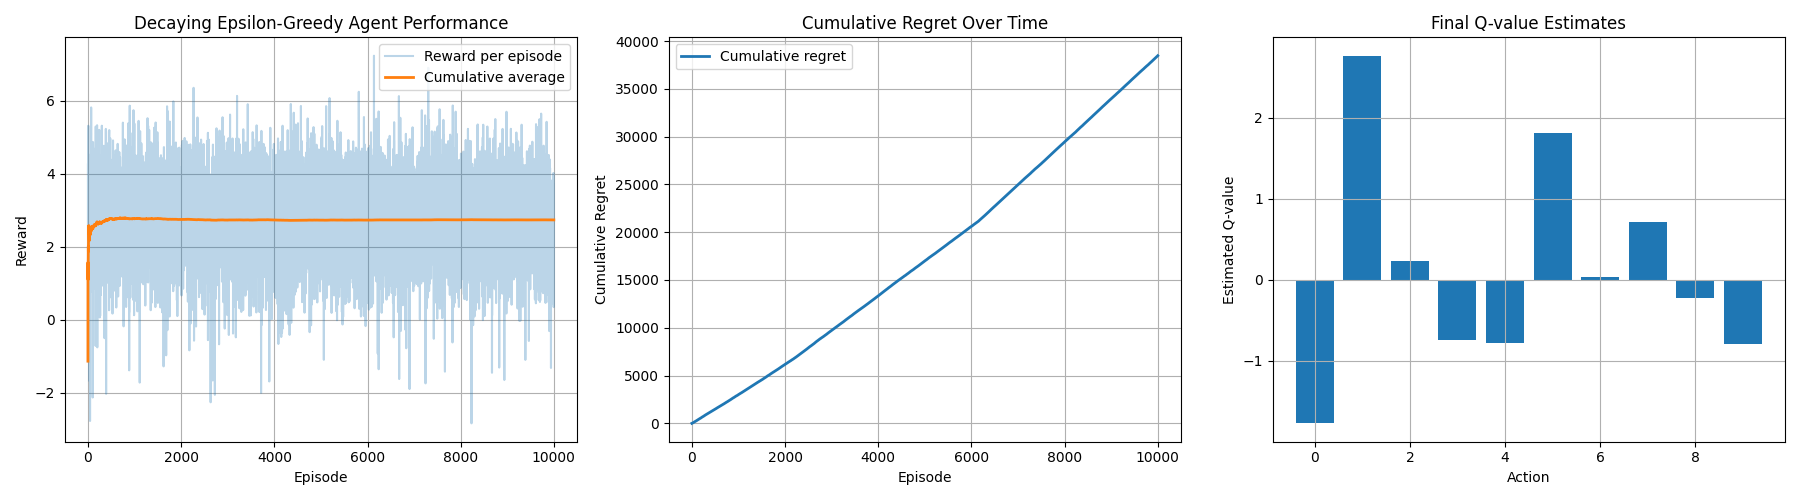
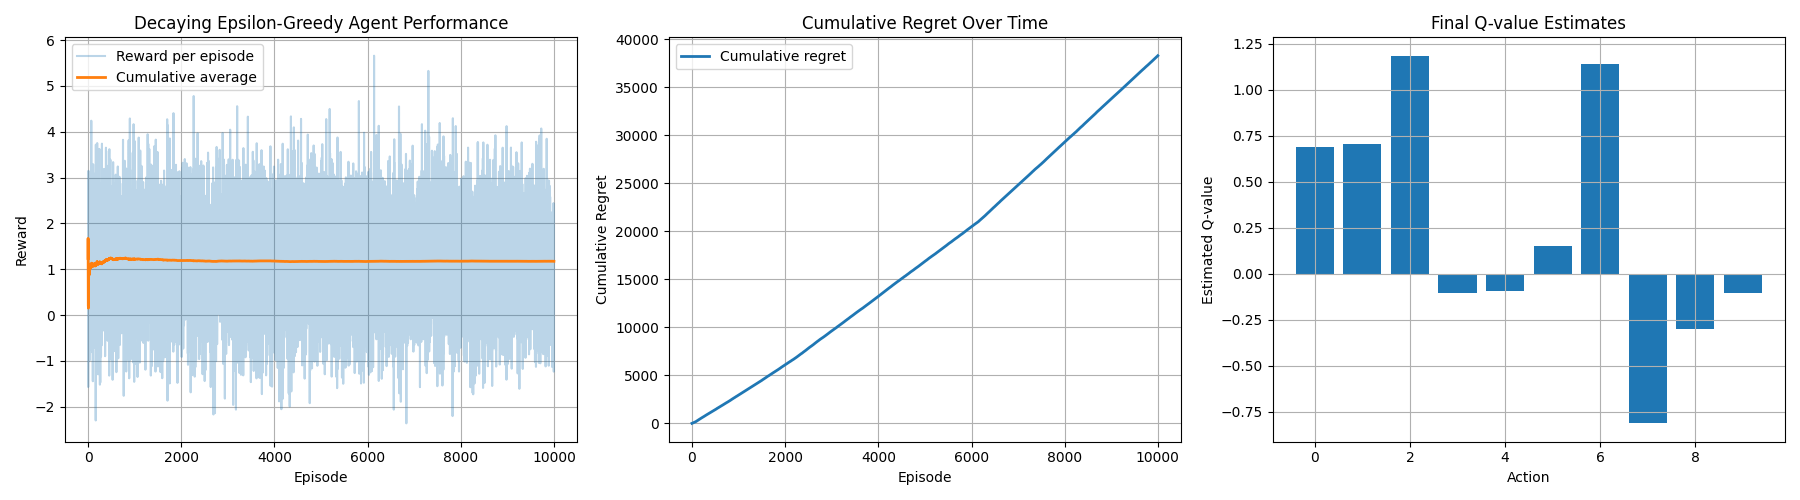
Update visualizations in agent training scripts to display rewards instead of cumulative regret. Modify titles and labels in plots for clarity. Update run_all_training.sh to remove warning suppression for the greedy agent script. Refresh binary result images for various agents.

diff --git a/decaying_epsilon_greedy.py b/decaying_epsilon_greedy.py
@@ -125,11 +125,11 @@ def train_decaying_epsilon_greedy_agent(env_name='BanditTenArmedGaussian-v0', n_
     # plt.show()
 
     plt.figure(figsize=(10, 6))
-    time_steps = range(len(cumulative_regret))
-    plt.plot(time_steps, cumulative_regret, linewidth=2, label='Total Regret')
+    time_steps = range(len(rewards))
+    plt.plot(time_steps, rewards, linewidth=2, label='Reward', alpha=0.6)
     plt.xlabel('Time-steps')
-    plt.ylabel('Total Regret')
-    plt.title('Total Regret vs Time-steps - Decaying Epsilon-Greedy Agent')
+    plt.ylabel('Reward')
+    plt.title('Reward vs Time-steps - Decaying Epsilon-Greedy Agent')
     plt.legend()
     plt.grid(True)
     plt.tight_layout()

diff --git a/thompson_sampling.py b/thompson_sampling.py
@@ -135,11 +135,11 @@ def train_thompson_sampling_agent(env_name='BanditTenArmedGaussian-v0', n_episod
     # plt.show()
 
     plt.figure(figsize=(10, 6))
-    time_steps = range(len(cumulative_regret))
-    plt.plot(time_steps, cumulative_regret, linewidth=2, label='Total Regret')
+    time_steps = range(len(rewards))
+    plt.plot(time_steps, rewards, linewidth=2, label='Reward', alpha=0.6)
     plt.xlabel('Time-steps')
-    plt.ylabel('Total Regret')
-    plt.title('Total Regret vs Time-steps - Thompson Sampling Agent')
+    plt.ylabel('Reward')
+    plt.title('Reward vs Time-steps - Thompson Sampling Agent')
     plt.legend()
     plt.grid(True)
     plt.tight_layout()

diff --git a/epsilon_greedy.py b/epsilon_greedy.py
@@ -103,11 +103,11 @@ def train_epsilon_greedy_agent(env_name='BanditTenArmedGaussian-v0', n_episodes=
     # plt.show()
 
     plt.figure(figsize=(10, 6))
-    time_steps = range(len(cumulative_regret))
-    plt.plot(time_steps, cumulative_regret, linewidth=2, label='Total Regret')
+    time_steps = range(len(rewards))
+    plt.plot(time_steps, rewards, linewidth=2, label='Reward', alpha=0.6)
     plt.xlabel('Time-steps')
-    plt.ylabel('Total Regret')
-    plt.title('Total Regret vs Time-steps - Epsilon-Greedy Agent')
+    plt.ylabel('Reward')
+    plt.title('Reward vs Time-steps - Epsilon-Greedy Agent')
     plt.legend()
     plt.grid(True)
     plt.tight_layout()

diff --git a/greedy.py b/greedy.py
@@ -99,11 +99,11 @@ def train_greedy_agent(env_name='BanditTenArmedGaussian-v0', n_episodes=1000):
     # plt.show()
 
     plt.figure(figsize=(10, 6))
-    time_steps = range(len(cumulative_regret))
-    plt.plot(time_steps, cumulative_regret, linewidth=2, label='Total Regret')
+    time_steps = range(len(rewards))
+    plt.plot(time_steps, rewards, linewidth=2, label='Reward', alpha=0.6)
     plt.xlabel('Time-steps')
-    plt.ylabel('Total Regret')
-    plt.title('Total Regret vs Time-steps - Greedy Agent')
+    plt.ylabel('Reward')
+    plt.title('Reward vs Time-steps - Greedy Agent')
     plt.legend()
     plt.grid(True)
     plt.tight_layout()

diff --git a/ucb1.py b/ucb1.py
@@ -107,11 +107,11 @@ def train_ucb1_agent(env_name='BanditTenArmedGaussian-v0', n_episodes=1000):
     # plt.show()
 
     plt.figure(figsize=(10, 6))
-    time_steps = range(len(cumulative_regret))
-    plt.plot(time_steps, cumulative_regret, linewidth=2, label='Total Regret')
+    time_steps = range(len(rewards))
+    plt.plot(time_steps, rewards, linewidth=2, label='Reward', alpha=0.6)
     plt.xlabel('Time-steps')
-    plt.ylabel('Total Regret')
-    plt.title('Total Regret vs Time-steps - UCB1 Agent')
+    plt.ylabel('Reward')
+    plt.title('Reward vs Time-steps - UCB1 Agent')
     plt.legend()
     plt.grid(True)
     plt.tight_layout()

diff --git a/gittins_index.py b/gittins_index.py
@@ -142,11 +142,11 @@ def train_gittins_index_agent(env_name='BanditTenArmedGaussian-v0', n_episodes=1
   # plt.show()
 
   plt.figure(figsize=(10, 6))
-  time_steps = range(len(cumulative_regret))
-  plt.plot(time_steps, cumulative_regret, linewidth=2, label='Total Regret')
+  time_steps = range(len(rewards))
+  plt.plot(time_steps, rewards, linewidth=2, label='Reward', alpha=0.6)
   plt.xlabel('Time-steps')
-  plt.ylabel('Total Regret')
-  plt.title('Total Regret vs Time-steps - Gittins Index Agent')
+  plt.ylabel('Reward')
+  plt.title('Reward vs Time-steps - Gittins Index Agent')
   plt.legend()
   plt.grid(True)
   plt.tight_layout()
